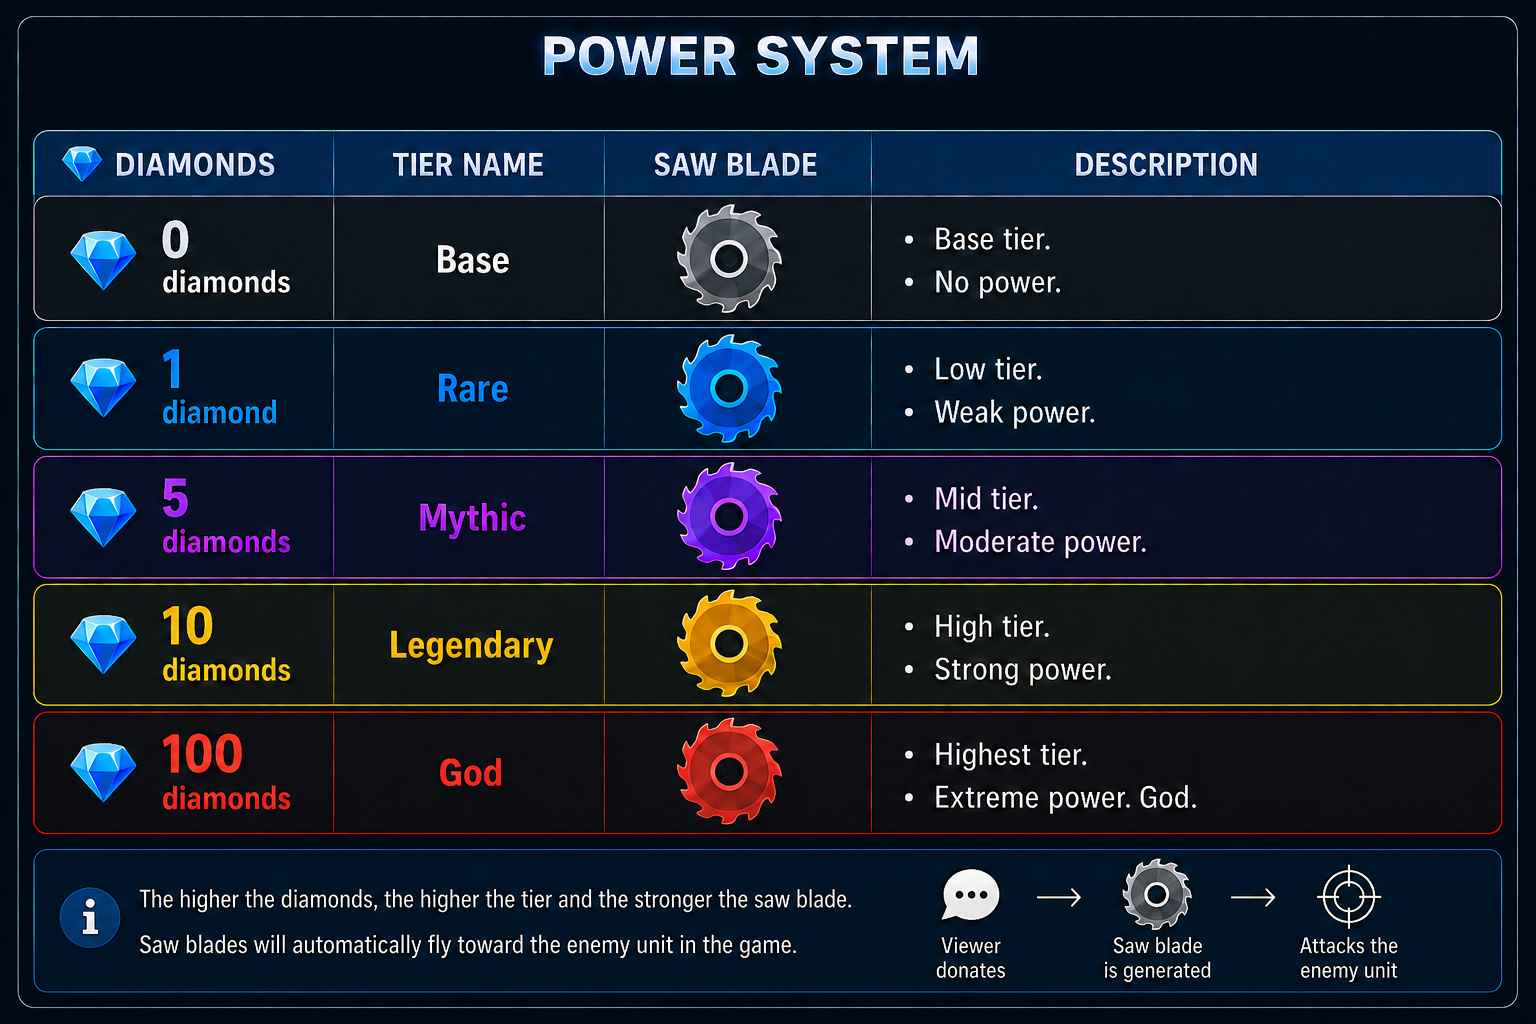
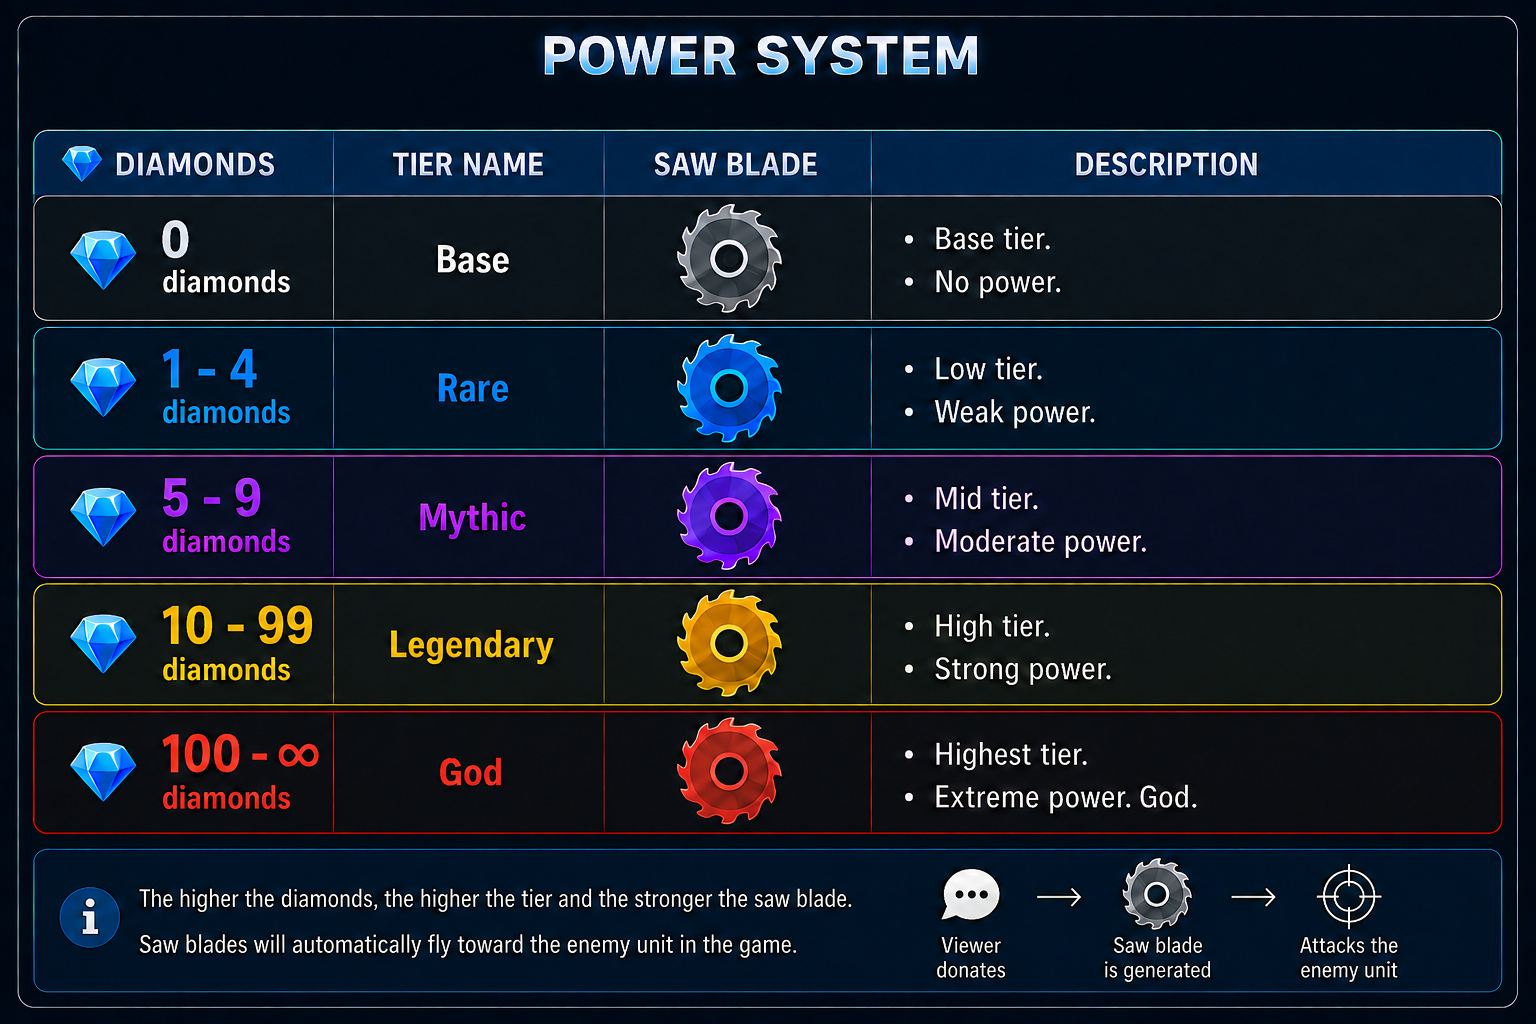
done

diff --git a/server/src/connections/tiktok.js b/server/src/connections/tiktok.js
@@ -13,21 +13,23 @@ const tiktokConnection = new TikTokLiveConnection(constants.username, {
 tiktokConnection
   .connect()
   .then((state) => {
-    console.info(`Connected to roomId ${state.roomId}`);
+    console.info(`[TIKTOK]: Connected to ${constants.username}, roomId ${state.roomId}`);
   })
-  .catch((err) => {
-    console.error("Failed to connect", err);
+  .catch((error) => {
+    console.error("[TIKTOK]: Failed to connect!", error);
   });
 
 readline.emitKeypressEvents(process.stdin);
 if (process.stdin.isRawMode) process.stdin.setRawMode(true);
 
 process.stdin.on("keypress", (str, key) => {
-  const unityClient = app.locals?.unityClient;
+  const unityClient = app.locals.unityClient;
   if (!unityClient || unityClient.readyState !== WebSocket.OPEN) return;
 
   const indexOf = constants.playerTierKey.indexOf(key.name);
-  indexOf >= 0 && player.init([{ ...constants.playerConfig[indexOf] }]);
+  if (indexOf < 0) return;
+  player.init([{ ...constants.playerConfig[indexOf] }]);
+  console.log(`[TIKTOK]: Sent ${constants.playerConfig[indexOf].tier} to unity!`);
 });
 
 module.exports = tiktokConnection;

diff --git a/server/src/untils/constants.js b/server/src/untils/constants.js
@@ -21,7 +21,7 @@ const constants = {
       health: 10,
       damage: 1,
       diamondCount: 0,
-      attended: null,
+      diamondCountMax: 0,
       avatarUrl: "",
       avatarBuffer: null,
     },
@@ -35,7 +35,7 @@ const constants = {
       health: 100,
       damage: 4,
       diamondCount: 1,
-      attended: null,
+      diamondCountMax: 4,
       avatarUrl: "",
       avatarBuffer: null,
     },
@@ -49,7 +49,7 @@ const constants = {
       health: 400,
       damage: 10,
       diamondCount: 5,
-      attended: null,
+      diamondCountMax: 9,
       avatarUrl: "",
       avatarBuffer: null,
     },
@@ -63,7 +63,7 @@ const constants = {
       health: 1500,
       damage: 40,
       diamondCount: 10,
-      attended: null,
+      diamondCountMax: 99,
       avatarUrl: "",
       avatarBuffer: null,
     },
@@ -77,7 +77,7 @@ const constants = {
       health: 10000,
       damage: 150,
       diamondCount: 100,
-      attended: null,
+      diamondCountMax: Infinity,
       avatarUrl: "",
       avatarBuffer: null,
     },

diff --git a/server/src/handlers/interact.js b/server/src/handlers/interact.js
@@ -12,18 +12,19 @@ const interact = async (viewerData) => {
   if (tiktokConnection._connectState !== "CONNECTED") return;
 
   // console.log(viewerData.user.displayId, viewerData.user.avatarThumb.urlList[0]);
-
   const unityClient = app.locals?.unityClient;
   if (!unityClient || unityClient.readyState !== WebSocket.OPEN) return;
 
-  const matchedConfig =
-    constants.playerConfig.find((tier) => tier.diamondCount === (viewerData.gift?.diamondCount || 0)) ||
-    constants.playerConfig[0];
+  viewerData.diamondCount = viewerData.gift?.diamondCount || 0;
+
+  const matchedConfig = constants.playerConfig.find(
+    (tier) => viewerData.diamondCount >= tier.diamondCount && viewerData.diamondCount <= tier.diamondCountMax,
+  );
 
   const playerData = {
     ...matchedConfig,
     displayId: viewerData.user.displayId,
-    avatarUrl: viewerData.user.avatarThumb.urlList,
+    avatarUrl: viewerData.user.avatarThumb.urlList[0],
   };
 
   for (let i = 0; i < (viewerData.repeatCount ?? 1); i++) player.enqueue({ ...playerData });

diff --git a/server/src/handlers/player.js b/server/src/handlers/player.js
@@ -111,8 +111,7 @@ const player = {
   while (true) {
     await player.sleep(checkInterval);
     try {
-      const unityClient = app.locals?.unityClient;
-      if (unityClient?.readyState !== WebSocket.OPEN) continue;
+      if (app.locals.unityClient?.readyState !== WebSocket.OPEN) continue;
       player.playerCountController();
       if (playerQueue.length === 0) continue;
       await player.dequeue();

diff --git a/war_game/Assets/_Src/Player/Player.cs b/war_game/Assets/_Src/Player/Player.cs
@@ -4,7 +4,7 @@ using TMPro;
 public class Player : MonoBehaviour
 {
     private const int degree = 360;
-    private const int minSpeed = 8;
+    private const int minSpeedStart = 8;
 
     private PlayerController playerControllerScript;
     private DamageController damageControllerScript;
@@ -37,6 +37,7 @@ public class Player : MonoBehaviour
     private bool isDisappearing = false;
 
     private Vector2 currentVelocity;
+    private float magnitude;
 
     private void Awake()
     {
@@ -77,19 +78,15 @@ public class Player : MonoBehaviour
         }
     }
 
-    /*private void FixedUpdate()
+    private void FixedUpdate()
     {
         if (isGrowing || isDisappearing) return;
         if (PlayerF.health <= 0) return;
 
         currentVelocity = rigidbody2d.linearVelocity;
-        if (Mathf.Abs(currentVelocity.x) <= .8f || Mathf.Abs(currentVelocity.y) <= .8f)
-        {
-            Vector2 direction = Vector3.zero - transform.position;
-            int speed = Random.Range(minSpeed, minSpeed + 4);
-            rigidbody2d.AddForce(direction.normalized * speed, ForceMode2D.Impulse);
-        }
-    }*/
+        magnitude = currentVelocity.magnitude;
+        if (Mathf.Abs(magnitude) <= 3f) rigidbody2d.AddForce(.8f * minSpeedStart * currentVelocity.normalized, ForceMode2D.Impulse);
+    }
 
     private void OnCollisionEnter2D(Collision2D collision)
     {
@@ -116,7 +113,7 @@ public class Player : MonoBehaviour
     private void OnEnable()
     {
         Vector2 direction = new(Random.Range(-degree, degree), Random.Range(-degree, degree));
-        int speed = Random.Range(minSpeed, minSpeed + 4);
+        int speed = Random.Range(minSpeedStart, minSpeedStart + 4);
         rigidbody2d.AddForce(direction.normalized * speed, ForceMode2D.Impulse);
         isGrowing = true;
     }

diff --git a/war_game/Assets/_Src/GameController/Launcher.cs b/war_game/Assets/_Src/GameController/Launcher.cs
@@ -21,8 +21,8 @@ public class Launcher : MonoBehaviour
     {
         if (serverProcess != null && !serverProcess.HasExited)
         {
-            Debug.Log("Server is running...");
-            Debug.Log("Restarting server...");
+            Debug.Log("[LAUNCHER]: Server is running...");
+            Debug.Log("[LAUNCHER]: Restarting server...");
             KillServer();
         }
 
@@ -38,11 +38,11 @@ public class Launcher : MonoBehaviour
             };
 
             serverProcess = Process.Start(psi);
-            Debug.Log("Server is started!");
+            Debug.Log("[LAUNCHER]: Server started!");
         }
         catch (System.Exception e)
         {
-            Debug.LogError("Error opening server: " + e.Message);
+            Debug.LogError("[LAUNCHER]: Error opening server: " + e.Message);
         }
     }
 
@@ -61,11 +61,11 @@ public class Launcher : MonoBehaviour
             };
 
             Process.Start(killPsi);
-            Debug.Log("Successfully closed Server CMD!");
+            Debug.Log("[LAUNCHER]: Successfully closed Server CMD!");
         }
         catch (System.Exception e)
         {
-            Debug.LogError("Error closing server: " + e.Message);
+            Debug.LogError("[LAUNCHER]: Error closing server: " + e.Message);
         }
     }
 }

diff --git a/war_game/Assets/_Src/GameController/GameController.cs b/war_game/Assets/_Src/GameController/GameController.cs
@@ -34,7 +34,7 @@ public class GameController : MonoBehaviour
             disconnectedUI.SetActive(false);
             Cursor.visible = false;
 
-            Debug.Log("Connection open!");
+            Debug.Log("[WS]: Connection open!");
         };
 
         websocket.OnClose += (code) =>
@@ -44,7 +44,7 @@ public class GameController : MonoBehaviour
             disconnectedUI.SetActive(true);
             Cursor.visible = true;
 
-            Debug.Log("Connection closed!");
+            Debug.Log("[WS]: Connection closed!");
         };
 
         websocket.OnMessage += (bytes) =>
@@ -67,7 +67,7 @@ public class GameController : MonoBehaviour
             else Debug.LogError("?");
         };
 
-        websocket.OnError += (e) => Debug.Log("Error! " + e);
+        websocket.OnError += (e) => Debug.Log("[WS]: Error! " + e);
 
         await websocket.Connect();
     }
@@ -96,6 +96,6 @@ public class GameController : MonoBehaviour
     public async void SendToServer(string message)
     {
         if (websocket.State == WebSocketState.Open) await websocket.SendText(message);
-        else Debug.LogError("Server is not ready to connect in SendToServer!");
+        else Debug.LogError("[WS]: Server is not ready to connect in SendToServer!");
     }
 }

diff --git a/war_game/Assets/_Src/Player/PlayerController.cs b/war_game/Assets/_Src/Player/PlayerController.cs
@@ -35,20 +35,16 @@ public class PlayerController : MonoBehaviour
         PlayerData player = Players;
         GameObject playerGO;
 
-        if (player.diamondCount > 0 || !player.attended)
+        if (playersGO.Count > 0)
         {
-            if (playersGO.Count > 0)
-            {
-                playerGO = playersGO.Dequeue();
-                playerGO.SetActive(true);
-            }
-            else
-            {
-                GameObject newPlayerGO = Resources.Load<GameObject>(playerPrefabPath);
-                playerGO = Instantiate(newPlayerGO, transform.localPosition, Quaternion.identity, transform);
-            }
+            playerGO = playersGO.Dequeue();
+            playerGO.SetActive(true);
         }
-        else return;
+        else
+        {
+            GameObject newPlayerGO = Resources.Load<GameObject>(playerPrefabPath);
+            playerGO = Instantiate(newPlayerGO, transform.localPosition, Quaternion.identity, transform);
+        }
 
         player.avatarSprite = CreateSpriteFromBuffer(player.avatarBuffer);
 

diff --git a/war_game/Assets/_Src/PlayerData.cs b/war_game/Assets/_Src/PlayerData.cs
@@ -12,10 +12,6 @@ public class PlayerData
     public int health;
     public int damage;
     public int diamondCount;
-    public bool attended;
     public byte[] avatarBuffer;
     public Sprite avatarSprite;
-
-    public bool isWelcome;
-    public string message;
 }
